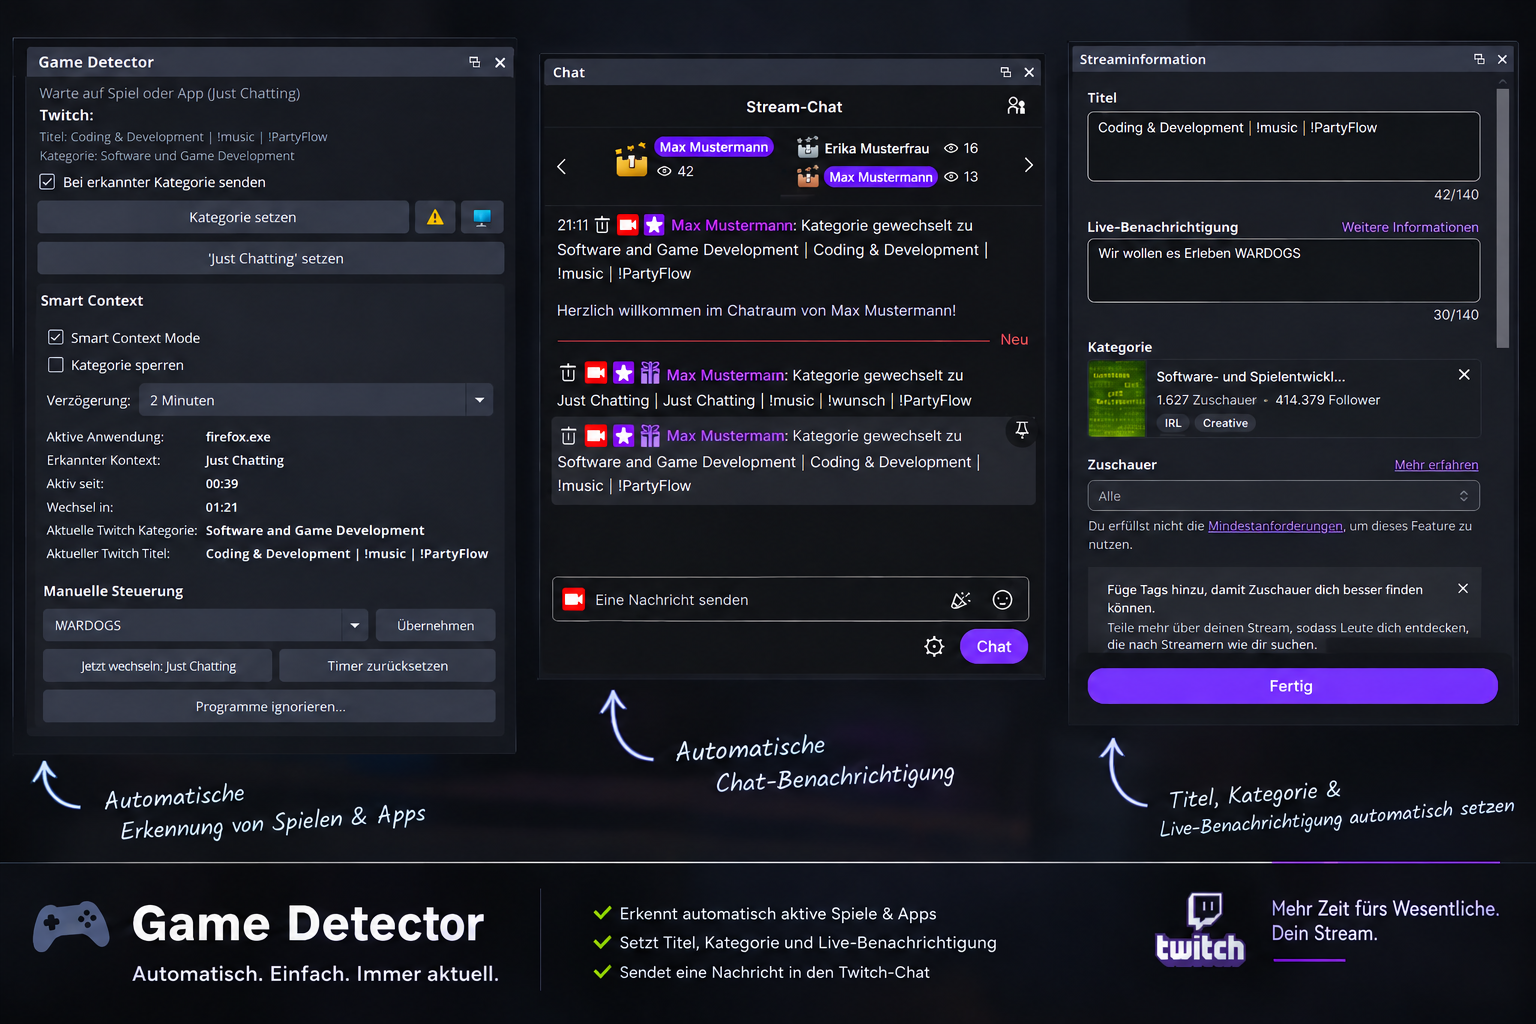
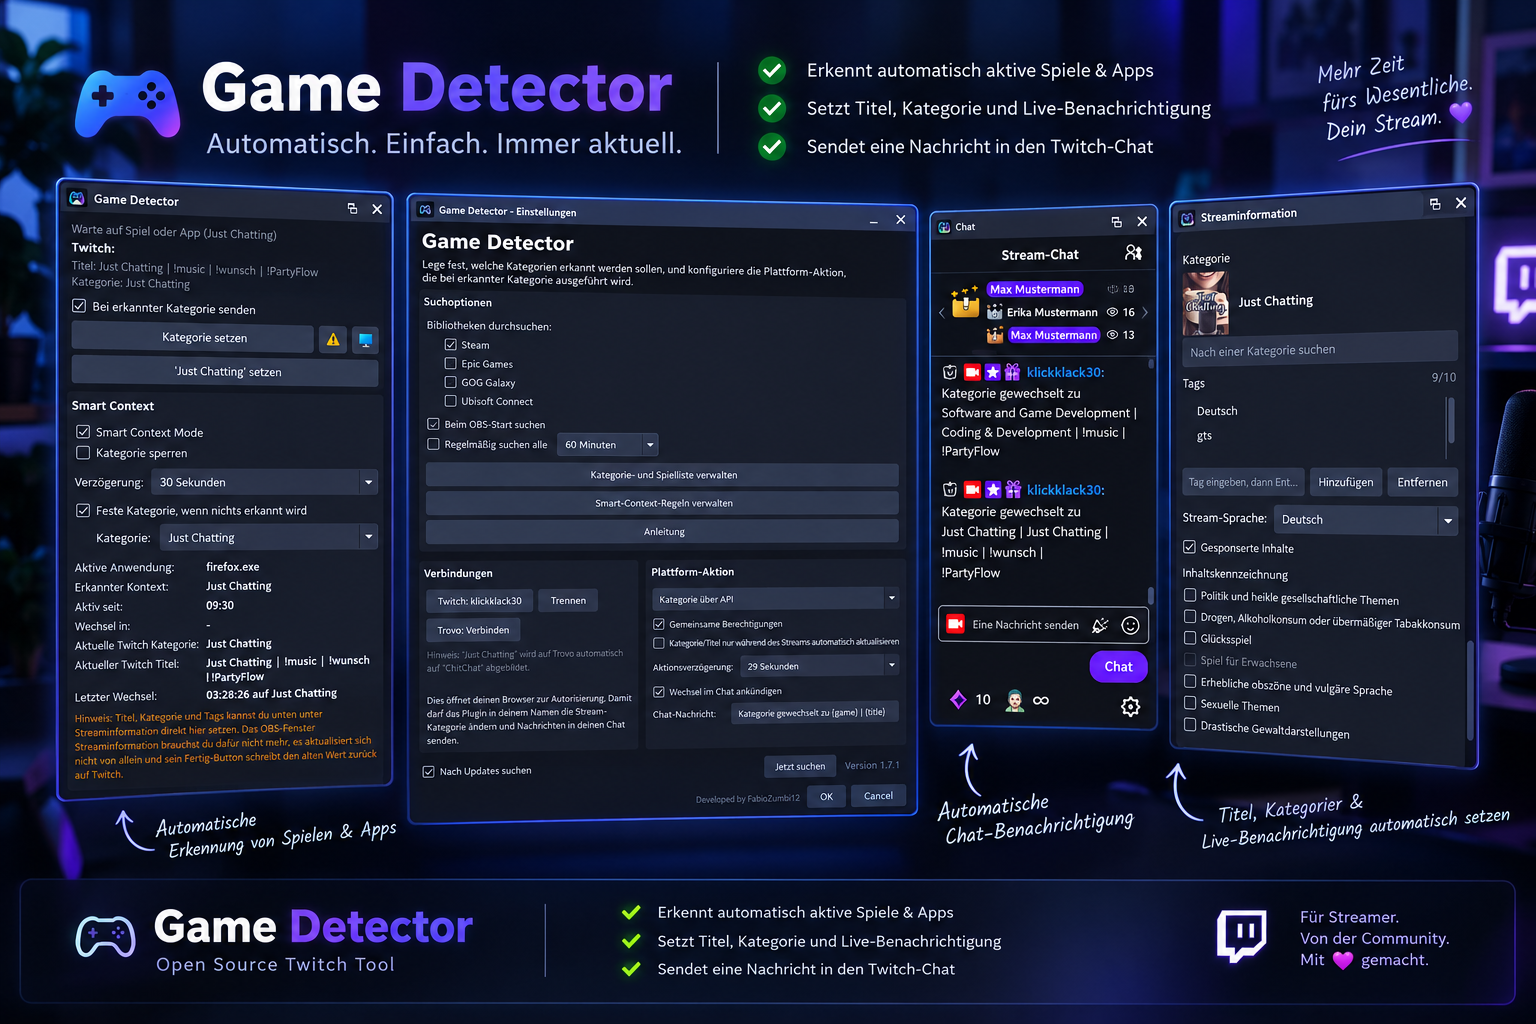
Neues Vorschaubild fuer den Game Detector
Das alte Bild zeigte noch den Stand vor 1.7.1. Das neue zeigt die feste
Kategorie, den Anleitung-Knopf und die aktuelle Versionsnummer.

Fuer das Repo als PNG mit 1536x1024, fuer die Portfolio-Seite als JPEG mit
Qualitaet 88, das sind 305 KB. Die Textstellen in den Screenshots habe ich
vergroessert gegen das Original geprueft, q82 waere sichtbar weicher gewesen.

Auf der Downloads-Seite stehen jetzt die richtigen Masse im img-Tag und ein
?v=20260913, damit die Aenderung nicht am Browser-Zwischenspeicher haengen
bleibt.

diff --git a/web/portfolio-downloads.html b/web/portfolio-downloads.html
@@ -32,8 +32,9 @@
   .nur-breit { display: none; }
   @media (min-width: 1024px) { .nur-breit { display: flex; } }
 
-  /* Beide Bilder liegen als 1280x853 vor, das ist 3:2. Der feste Rahmen
-     haelt den Platz frei, damit beim Laden nichts springt. */
+  /* Beide Bilder haben das Verhaeltnis 3:2, der Game Detector als 1536x1024,
+     Call Klingel als 1280x853. Der feste Rahmen haelt den Platz frei, damit beim
+     Laden nichts springt. */
   .bild-3zu2 { aspect-ratio: 3 / 2; }
   .zahlen { font-variant-numeric: tabular-nums; }
 
@@ -121,8 +122,8 @@
       <div class="grid md:grid-cols-2 gap-8 max-w-5xl mx-auto">
 
         <article class="group relative rounded-2xl border border-accent-500/20 bg-neutral-800/90 backdrop-blur-sm overflow-hidden hover:border-accent-400/50 transition-all duration-500 flex flex-col">
-          <img src="/game-detector-smartcontext.jpg" alt="Game Detector: das Plugin im Dock von OBS Studio"
-               width="1280" height="853" loading="lazy"
+          <img src="/game-detector-smartcontext.jpg?v=20260913" alt="Game Detector: das Dock in OBS, die Einstellungen, der Twitch-Chat und die Streaminformation"
+               width="1536" height="1024" loading="lazy"
                class="w-full bild-3zu2 object-cover">
 
           <div class="relative p-6 space-y-4 flex flex-col flex-1">
